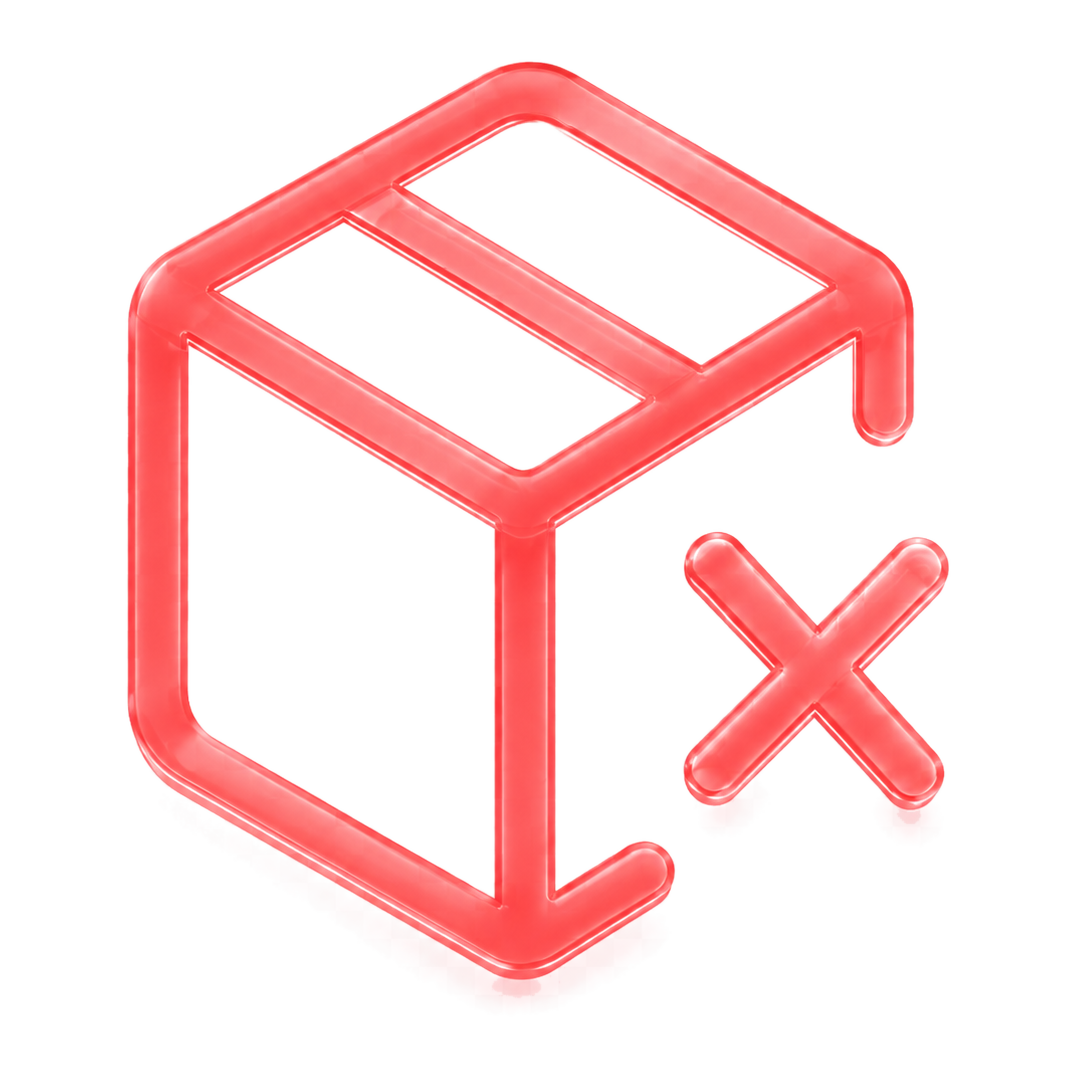
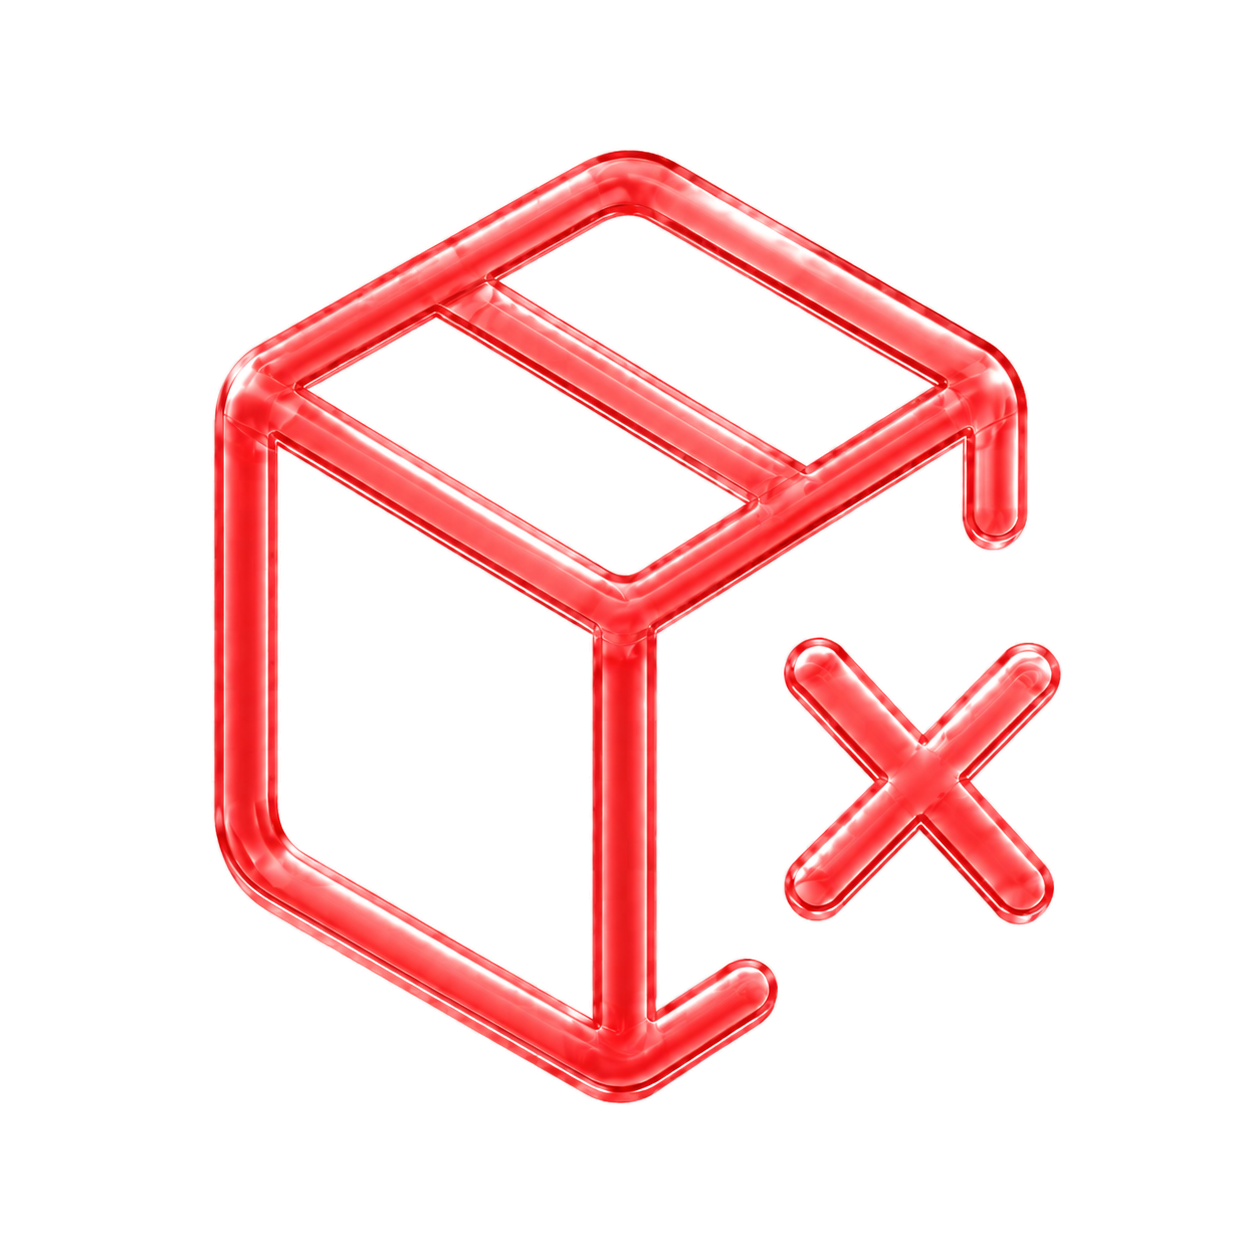
feat: add dynamic 3D asset rendering to StartScreen and optimize layout spacing in MyMacPage

Changed region(s): [[0.092, 0.0613, 0.8587, 0.9507], [0.6134, 0.4907, 0.8894, 0.7667]]

diff --git a/apps/desktop/src/components/common/StartScreen.tsx b/apps/desktop/src/components/common/StartScreen.tsx
@@ -72,6 +72,13 @@ const featureThemes: Record<string, { accent: string; glow: string; footerText: 
   },
 };
 
+const featureImages: Record<string, string> = {
+  Sparkles: './assets/images/cleanup-3d.png',
+  Gauge: './assets/images/performance-3d.png',
+  Database: './assets/images/storage-3d.png',
+  PackageX: './assets/images/uninstall-3d.png',
+};
+
 export function StartScreen({ config, onStart, variant = 'default' }: StartScreenProps) {
   // Map icon name to actual component
   const getIcon = (iconName: string) => {
@@ -90,6 +97,7 @@ export function StartScreen({ config, onStart, variant = 'default' }: StartScree
     glow: 'rgba(109,93,252,0.22)',
     footerText: 'Review the results before making changes',
   };
+  const featureImage = featureImages[config.icon];
 
   if (variant === 'myMac') {
     return (
@@ -220,11 +228,12 @@ export function StartScreen({ config, onStart, variant = 'default' }: StartScree
           <section className="relative flex min-h-0 items-center justify-center overflow-hidden pb-[clamp(1rem,3vh,2.5rem)]">
             <div className="absolute bottom-[14%] h-20 w-[min(410px,42vw)] rounded-[50%] bg-white/35 shadow-[0_30px_70px_rgba(255,80,110,0.18),inset_0_1px_1px_rgba(255,255,255,0.65)] backdrop-blur-xl" />
             <div className="absolute bottom-[11%] h-20 w-[min(500px,50vw)] rounded-[50%] border border-white/35" />
-            {variant === 'uninstall' ? (
+            {featureImage ? (
               <img
-                src="./assets/images/uninstall-3d.png"
+                src={featureImage}
                 alt=""
-                className="relative z-10 w-[clamp(18rem,30vw,28rem)] object-contain drop-shadow-[0_24px_54px_rgba(255,45,61,0.25)]"
+                className="relative z-10 w-[clamp(18rem,30vw,28rem)] object-contain"
+                style={{ filter: `drop-shadow(0 24px 54px ${featureTheme.glow})` }}
                 draggable={false}
                 aria-hidden="true"
               />
@@ -247,7 +256,7 @@ export function StartScreen({ config, onStart, variant = 'default' }: StartScree
             <img
               src="./assets/images/start-here-bg.png"
               alt="Start here"
-              className="absolute -top-[clamp(2.5rem,5vh,4rem)] left-0 w-[clamp(10rem,16vw,15rem)] object-contain"
+              className="absolute -top-[clamp(3rem,5.8vh,4.6rem)] left-[clamp(2rem,6vw,6rem)] w-[clamp(8.75rem,14vw,13rem)] object-contain"
               draggable={false}
             />
             <Button

diff --git a/apps/desktop/src/pages/MyMacPage.tsx b/apps/desktop/src/pages/MyMacPage.tsx
@@ -347,7 +347,7 @@ export function MyMacPage({ onNavigate }: MyMacPageProps) {
 
   return (
     <div className="relative h-full min-h-0 overflow-hidden">
-      <div className="relative flex h-full min-h-0 w-full flex-col p-4">
+      <div className="relative flex h-full min-h-0 w-full flex-col p-2">
         {error && !metrics ? (
           <Card className="p-8 text-center">
             <p className="text-accent-danger mb-4">{error}</p>
@@ -559,7 +559,7 @@ export function MyMacPage({ onNavigate }: MyMacPageProps) {
             </button>
 
             {/* RAM + Storage - Row 1, Col 3 */}
-            <div className="grid grid-cols-1 gap-4 sm:grid-cols-2 col-start-3 row-start-1">
+            <div className="grid grid-cols-1 gap-2 sm:grid-cols-2 col-start-3 row-start-1">
               {/* RAM */}
               <Card className={`min-h-44 rounded-[1.75rem] p-4 overflow-hidden ${GLASS_CARD}`}>
                 <div className="flex flex-col h-full">
@@ -641,7 +641,7 @@ export function MyMacPage({ onNavigate }: MyMacPageProps) {
             </div>
 
             {/* Network + Battery - Row 2, Col 3 */}
-            <div className="grid grid-cols-1 gap-4 sm:grid-cols-2 col-start-3 row-start-2">
+            <div className="grid grid-cols-1 gap-2 sm:grid-cols-2 col-start-3 row-start-2">
               <Card className={`min-h-36 rounded-[1.75rem] p-4 overflow-hidden ${GLASS_CARD}`}>
                 <div className="flex flex-col h-full">
                   <div className="mb-2">

diff --git a/apps/desktop/src/components/layout/Sidebar.tsx b/apps/desktop/src/components/layout/Sidebar.tsx
@@ -31,7 +31,7 @@ export function Sidebar({ currentPage, onPageChange }: SidebarProps) {
     >
       <div className="mt-[clamp(3.35rem,5.8vh,4.25rem)] flex justify-center">
         <div className="flex h-[100px] w-[100px] items-center justify-center overflow-visible">
-          <img src="/assets/images/rounded-logo.png" alt="Moleui" className="h-full w-full object-contain object-center" draggable={false} />
+          <img src="./assets/images/rounded-logo.png" alt="Moleui" className="h-full w-full object-contain object-center" draggable={false} />
         </div>
       </div>
 